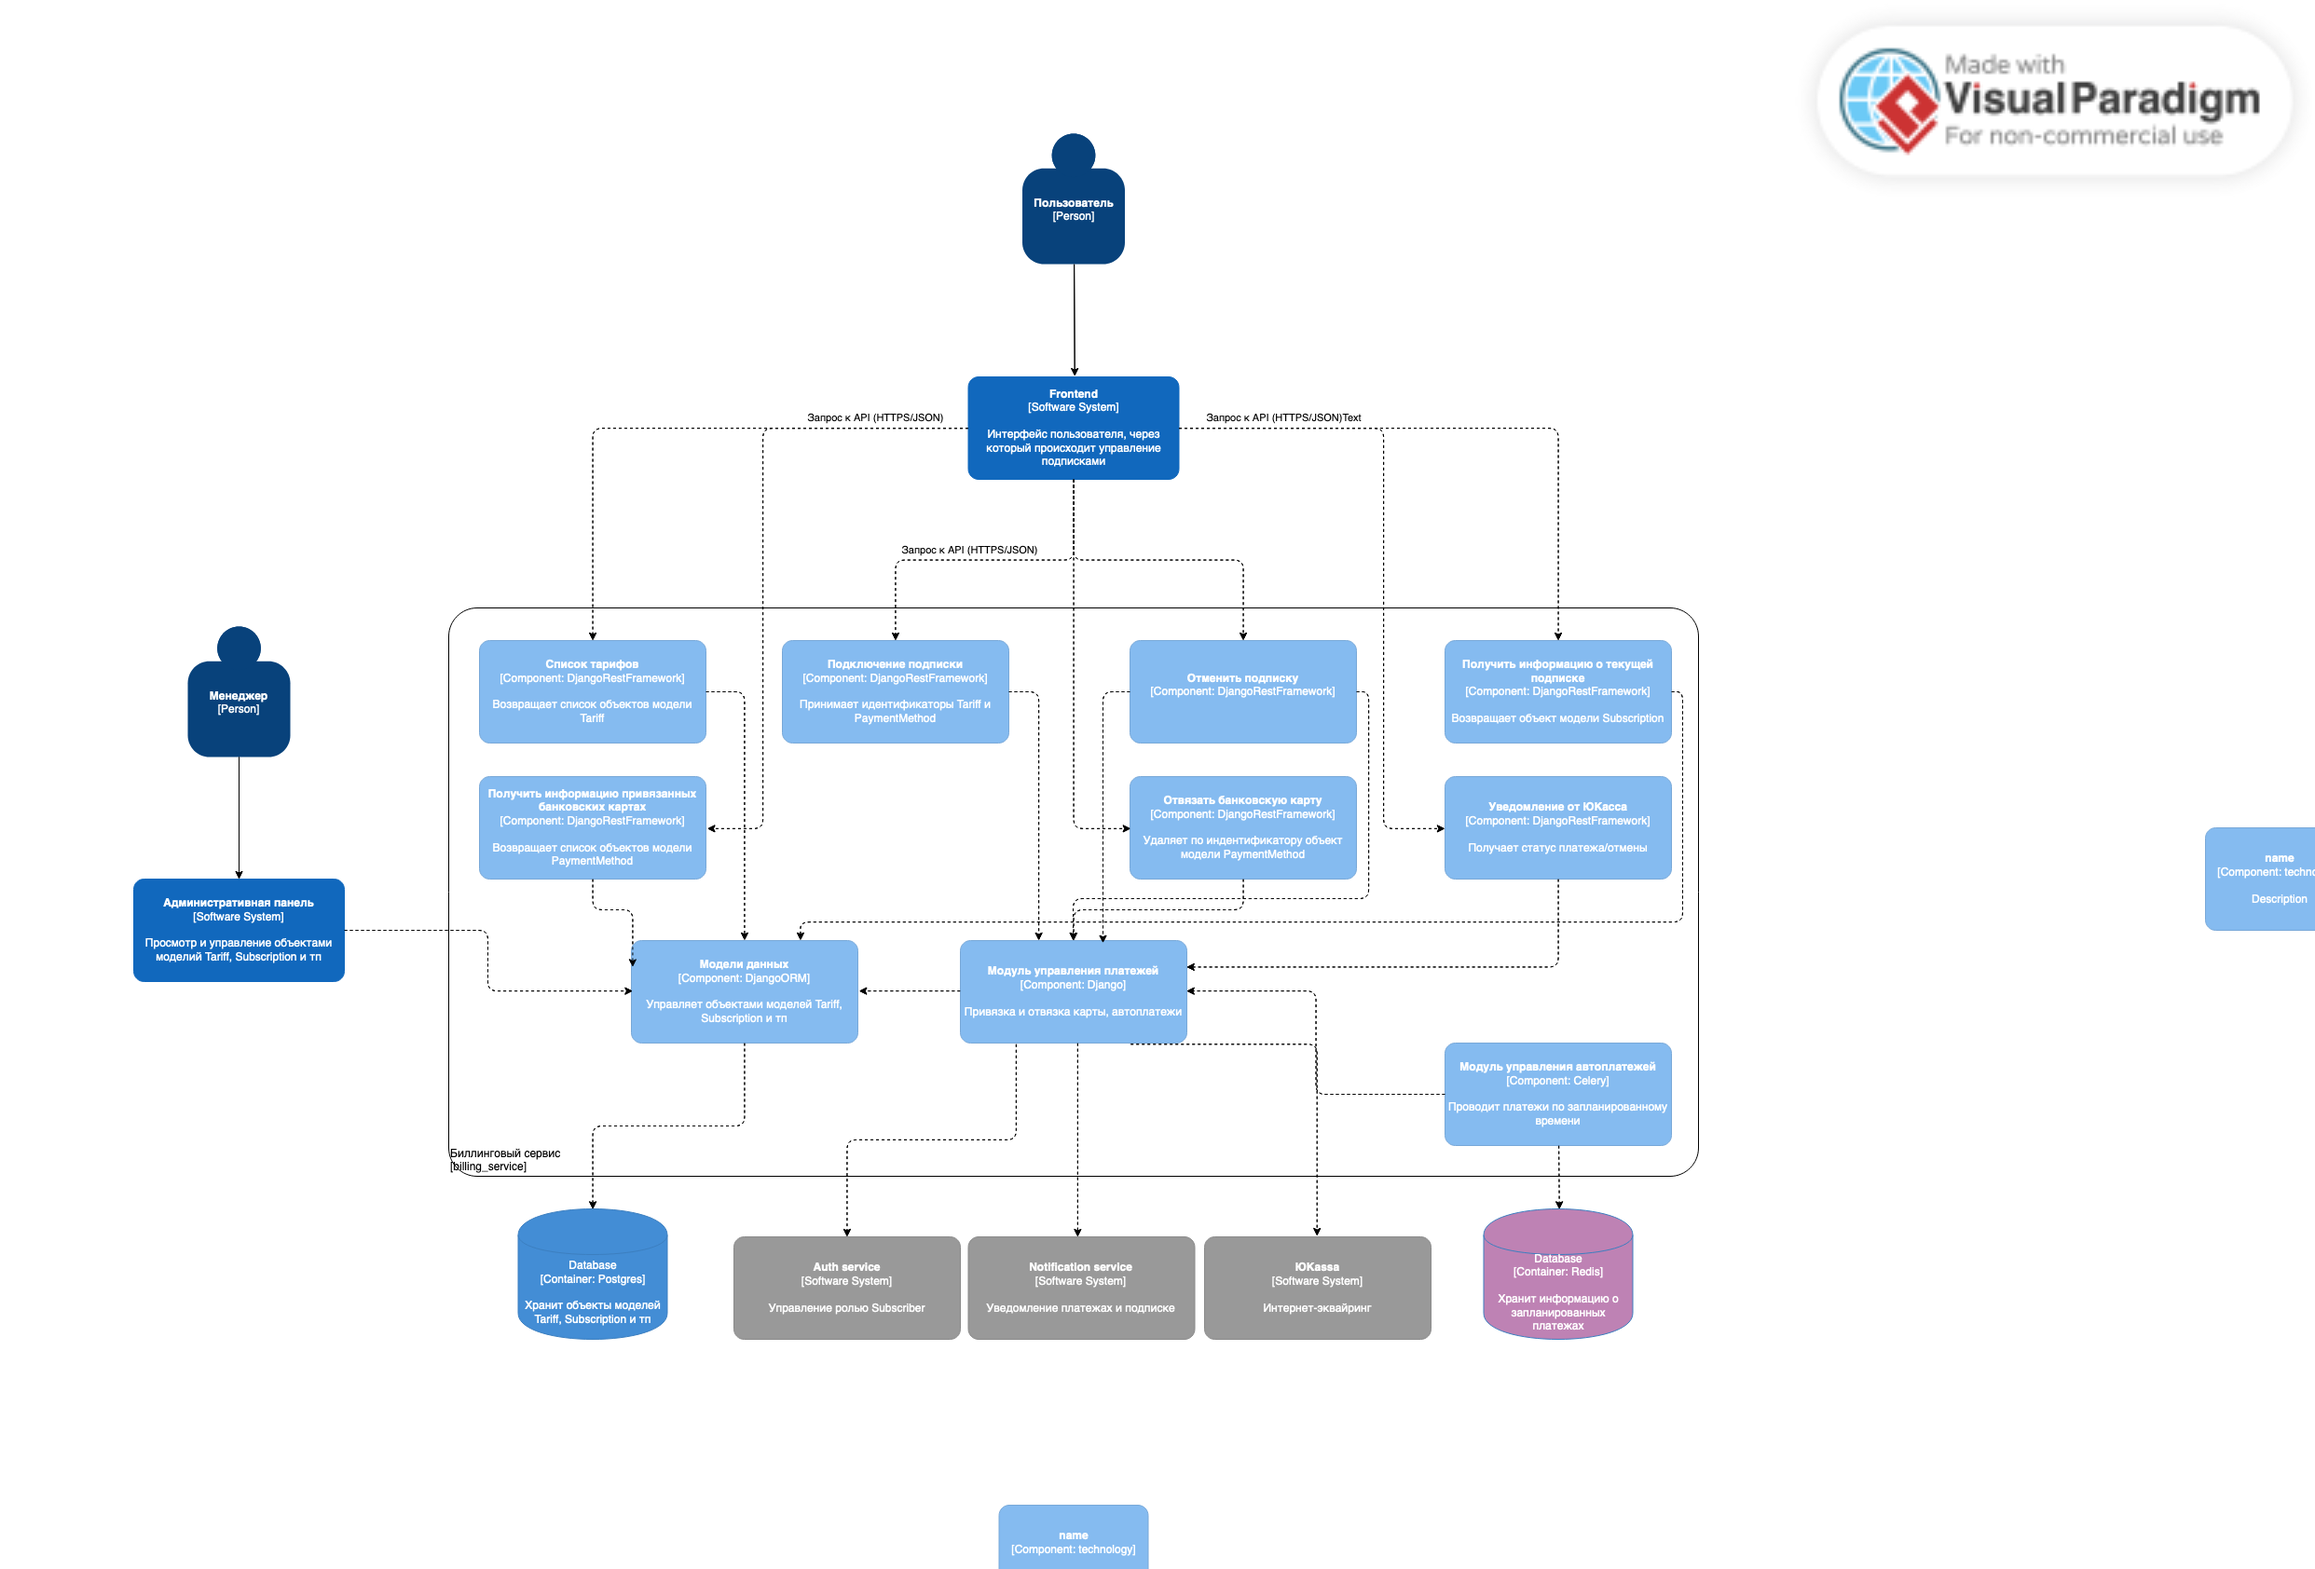
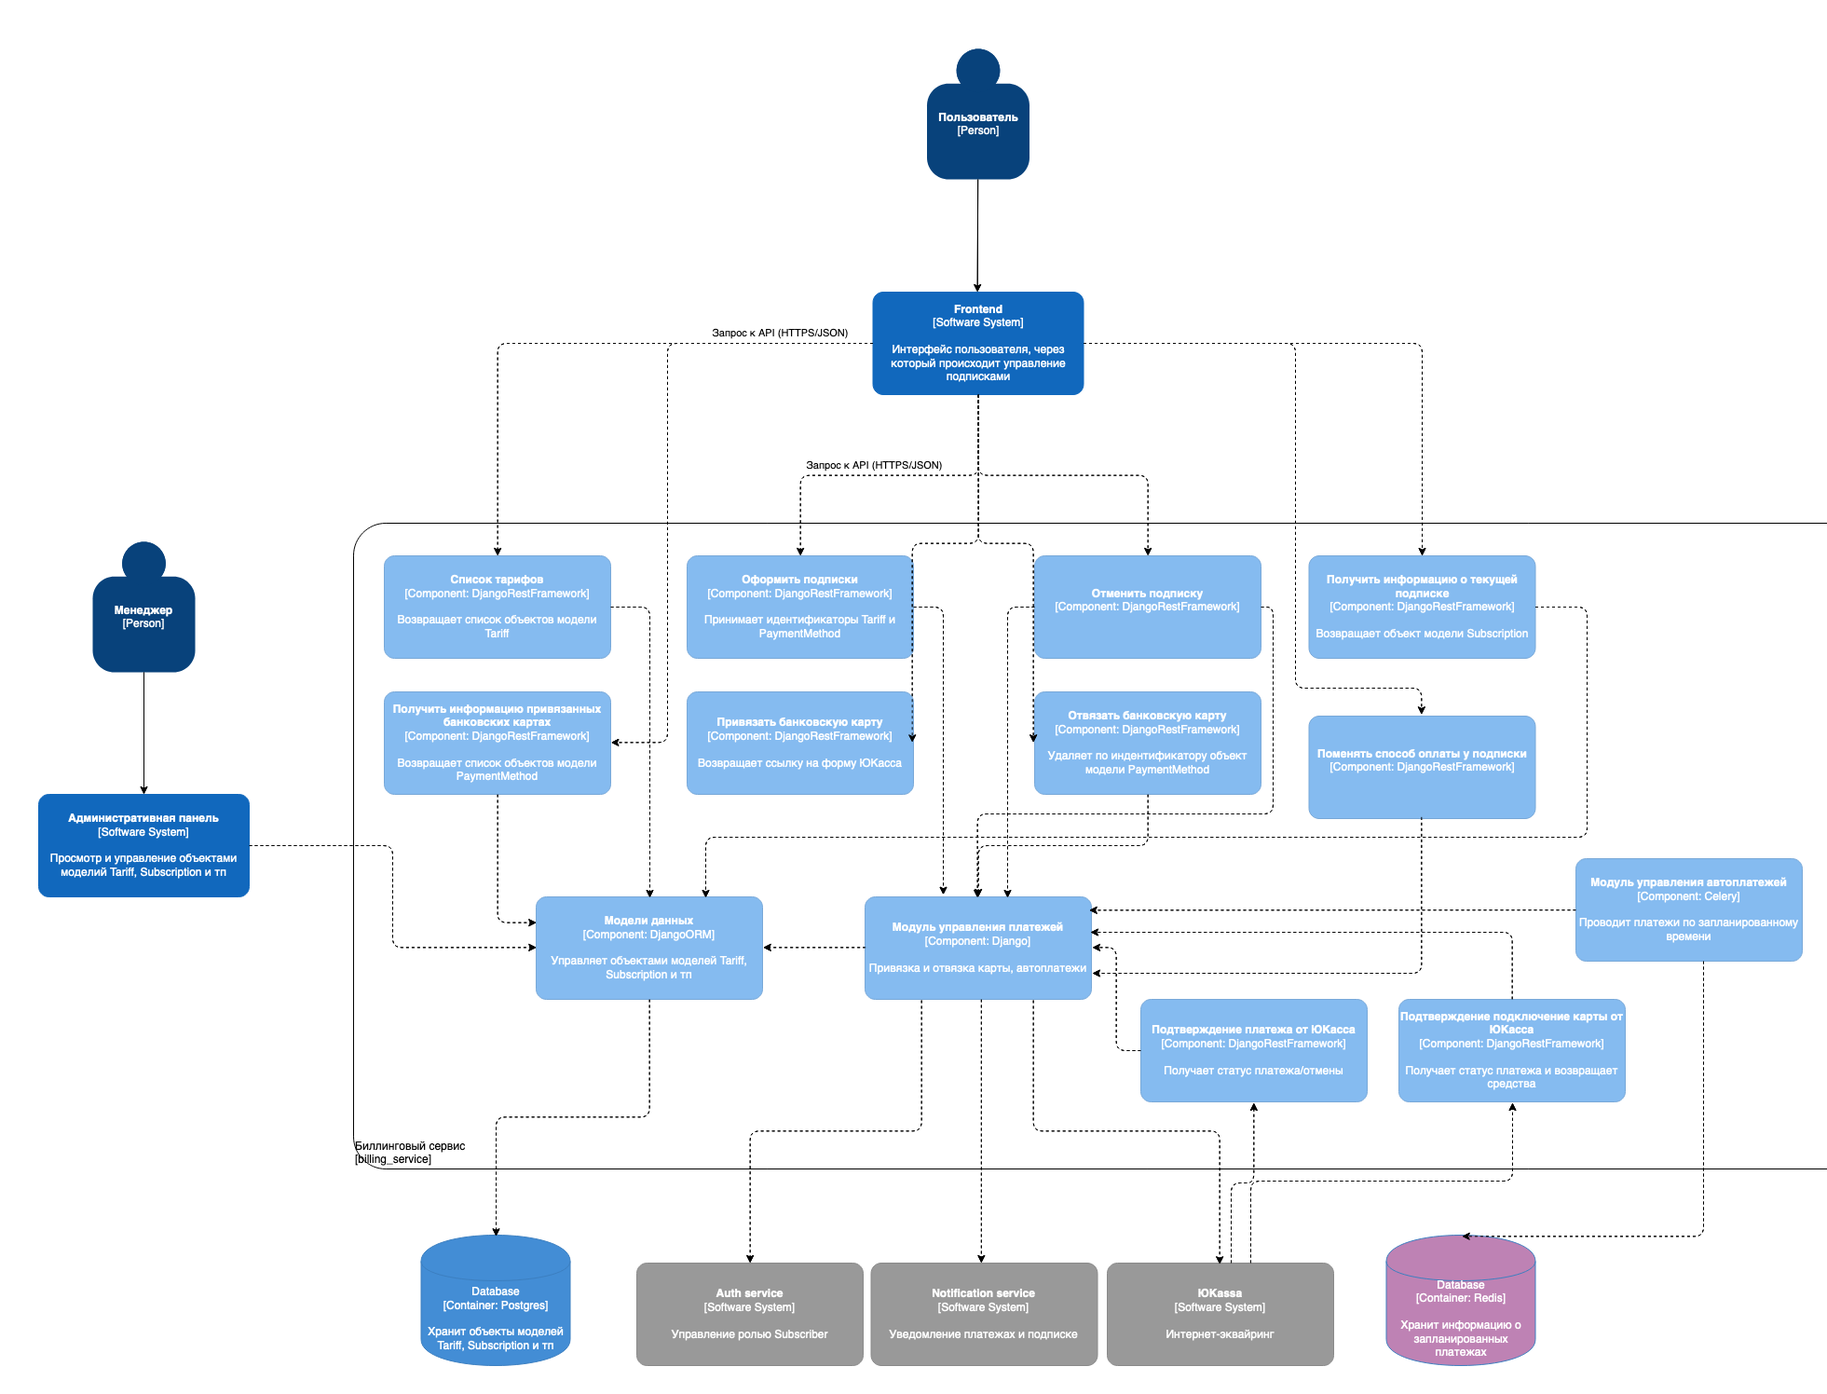
Updated README.md and .env.sample

diff --git a/billing_service/app/celery.py b/billing_service/app/celery.py
@@ -16,7 +16,11 @@ app.autodiscover_tasks()
 app.conf.beat_schedule = {
     "check-subscriptions": {
         "task": "billing.tasks.auto_payment",
-        "schedule": 1 # crontab(minute=0, hour="*/1"),  # change to 1 times per a minute to test
+        "schedule": crontab(minute=0, hour="*/1"),  # change to 1 times per a minute to test
+    },
+    "check-subscriptions-without-auto-payment": {
+        "task": "billing.tasks.remove_subscribe_role",
+        "schedule": crontab(minute=0, hour="*/1"),  # change to 1 times per a minute to test
     },
 }
 

diff --git a/billing_service/README.md b/billing_service/README.md
@@ -1,4 +1,4 @@
-# Биллинговый сервис
+# 🌟 Биллинговый сервис
 
 ## 🛠 Стек технологий
 
@@ -10,8 +10,236 @@
 ![billing](architecture/billing.png)
 
 
+###Сервис имеет 10 методов
+
+1. Получить список тарифов
+```http request
+GET - /billing/tariffs 
+```
+
+Возможный ответ
+
+```json
+{
+    "count": 2,
+    "next": null,
+    "previous": null,
+    "results": [
+        {
+            "id": "70caff03-069d-4cdc-8d65-656ebceb2bcf",
+            "title": "Еженедельная подписка",
+            "cost": "99.99",
+            "period_type": "week",
+            "description": "Еженедельная подписка",
+            "is_active": true,
+            "trial_period": false,
+            "trial_period_type": null
+        },
+        {
+            "id": "8fe840f2-0f8b-4a58-8d56-ce26327746c3",
+            "title": "Ежемесячная подписка",
+            "cost": "249.99",
+            "period_type": "month",
+            "description": "Ежемесячная подписка",
+            "is_active": true,
+            "trial_period": true,
+            "trial_period_type": "week"
+        }
+    ]
+}
+```
+
+2. Добавить способ оплаты
+```http request
+POST - /billing/payment-method
+```
+
+Вернет ссылку на ЮКассу, по которой необходимо перейти и заполнить данные карты
+```json
+{
+    "confirmation_url": "https://yoomoney.ru/checkout/payments/v2/contract?orderId=2bcf4466-000f-5000-a000-1f63903828f9"
+}
+```
+
+После успешного списания, карта привяжется к магазину и пользователю предложат вернуться на сайт, а именно на следующий эндпоинт
+
+3. Подтверждение способа оплаты. 
+```http request
+GET - /billing/approve-payment-method/<idempotency_key>
+```
+Если платеж прошел, то бекенд сохраняет идентификатор способа оплаты и возвращает деньги пользователю.
+В дальнейшем полученный способ оплаты можно использовать в автоплатежах. 
+
+Болле подробный алгоритм действий 
+привязки способа оплаты представлен на схеме ниже.
+
+![billing](architecture/link_payment_method.jpeg)
+
+4. Оформить подписку
+
+```http request
+POST - /billing/subscription
+```
+
+Тело запроса
+```json
+{
+    "tariff": "70caff03-069d-4cdc-8d65-656ebceb2bcf",
+    "payment_method": "65fdda45-75f2-4430-9fac-771226b27adf"
+}
+```
+
+Если тариф предусматривает пробный период, и у пользователя не было до этого подписки, создатся объект подписки `Subscription` и пользователю 
+присвоится роль `Subscriber` без оплаты за пробный период.
+
+Если способ оплаты не имеет 3DS, то после успешного списания, создатся объект подписки `Subscription` и пользователю 
+присвоится роль `Subscriber`.
+
+В противном случае бекенд вернет ссылку для подтверждения оплаты. После успешного подтверждения оплаты, ЮКасса предложит
+пользователю вернуться на сайт по эндпоинту ниже.
+
+5. Подтверждение оплаты
+```http request
+GET - /billing/approve-payment/<idempotency_key>
+```
+
+После успешного подтверждения платежа, создатся объект подписки `Subscription` и пользователю 
+присвоится роль `Subscriber`.
+
+6. Отменить подписку
+```http request
+PUT - /billing/cancel-subscription
+```
+
+Если у пользователя пробный период, то после отмены, у пользоваетля отзывается роль `Subscriber` и в статусе объекта 
+`Subscription` выставляем `canceled`.
+
+Если подписка пользователя длиться меньше 2-х дней, то после отмены оформляется возврат средств и в статусе объекта 
+`Subscription` выставляем `canceled`.
+
+Если подписка пользователя длиться больше 2-х дней, то после отмены не оформляется возврат средств, а в статусе объекта 
+`Subscription` выставляем `no_auto_payemnt` (что подписка без автопродления).
+
+7. Получить информацию о подписке
+```http request
+GET - /billing/subscription
+```
+
+```json
+{
+    "id": "c4d314e2-b319-4519-acdd-2729978a9e1c",
+    "ended_at": "2023-04-23T23:55:51.141164Z",
+    "status": "active",
+    "created_at": "2023-04-17T02:55:51.146827+03:00",
+    "modified_at": "2023-04-17T02:55:51.147097+03:00",
+    "tariff": {
+        "id": "70caff03-069d-4cdc-8d65-656ebceb2bcf",
+        "title": "Еженедельная подписка",
+        "cost": "99.99",
+        "period_type": "week",
+        "description": "Еженедельная подписка",
+        "is_active": true,
+        "trial_period": false,
+        "trial_period_type": null
+    },
+    "payment_method": {
+        "id": "65fdda45-75f2-4430-9fac-771226b27adf",
+        "created_at": "2023-04-16T01:13:23.015096+03:00",
+        "modified_at": "2023-04-16T01:13:23.015369+03:00",
+        "card_type": "Mir",
+        "expire": "12/2024",
+        "last4": "2987",
+        "first6": "220247"
+    }
+}
+```
+
+8. Получить список привязанных способов оплаты
+```http request
+GET - /billing/payment-method
+```
+
+Пример ответа
+```json
+{
+    "count": 3,
+    "next": null,
+    "previous": null,
+    "results": [
+        {
+            "id": "65fdda45-75f2-4430-9fac-771226b27adf",
+            "created_at": "2023-04-16T01:13:23.015096+03:00",
+            "modified_at": "2023-04-16T01:13:23.015369+03:00",
+            "card_type": "Mir",
+            "expire": "12/2024",
+            "last4": "2987",
+            "first6": "220247"
+        },
+        {
+            "id": "f2b3a0b9-d837-4e24-b114-6d1937a0a970",
+            "created_at": "2023-04-16T22:59:49.825714+03:00",
+            "modified_at": "2023-04-16T22:59:49.825907+03:00",
+            "card_type": "Mir",
+            "expire": "12/2023",
+            "last4": "0004",
+            "first6": "220000"
+        },
+        {
+            "id": "c7af5746-6aad-4350-b312-44bb3af24192",
+            "created_at": "2023-04-17T14:45:44.742506+03:00",
+            "modified_at": "2023-04-17T14:45:44.742636+03:00",
+            "card_type": "Visa",
+            "expire": "12/2025",
+            "last4": "1111",
+            "first6": "411111"
+        }
+    ]
+}
+```
+
+9. Поменять способ оплаты у подписки
+```http request
+PUT - /billing/change-payment-method
+```
+
+Тело запроса
+```json
+{"payment_method_id": "65fdda45-75f2-4430-9fac-771226b27adf"}
+```
+
+10. Отвязать карту
+```http request
+DELETE - /billing/payment-method/<payment_method_id>
+```
+
+## 🏎 Автоплатежи
+За автоплатежи ответствен `celery`, который раз в час запускает две таски:
+
+1. `check-subscriptions` - находит все подписки, которые подошли к концу и проводит по ним списание средств. 
+   Если оплата требует подтверждения (3DS), то у пользователя отзывается роль `Subscriber` до момента подтверждения.
+   Если оплата не прошла, то у пользователя отзывается роль `Subscriber` до момента оплаты, а подписке назначается статус `waiting`, который активен в течение недели.
+   
+2. `check-subscriptions-without-auto-payment` - находит все подписки, которые подошли к концу и имеют статус `no_auto_payment`. У пользователя отзывается роль `Subscriber`.
+
 ## 🪄 Тестирование
 
 0. Поднимите контейнеры `postgres`, `redis`, `auth` и `notification`.
 1. Переименуйте `.env.sample` -> `.env`, указав актуальные параметры виртуального окружения.
 2. Выполните команды `python manage.py runserver` и `celery -A app worker -B`, чтобы запустить сервис.
+
+
+## 🔑 Виртуальное окружение
+
+Для корректной работы лучше указать собственные ключи от ЮКассы, но на всякий случай мы приложили свои от тестового магазина.
+
+Также предварительно необходимо создать роль `Subscriber` в сервисе авторизации (сделать это можно через OpenAPI по `http://localhost/api/v1/user/`) и установит его идентификатор в виртуальном окружении. 
+
+
+## 🚀 Запуск
+Перейдите в корень проекта.
+Для запуска всего проекта выполните одну из команд:
+
+- `make dev docker`
+- `make prod docker`
+
+Если запускаете первый раз, то не забудьте накатить миграции командой `init migrations`
